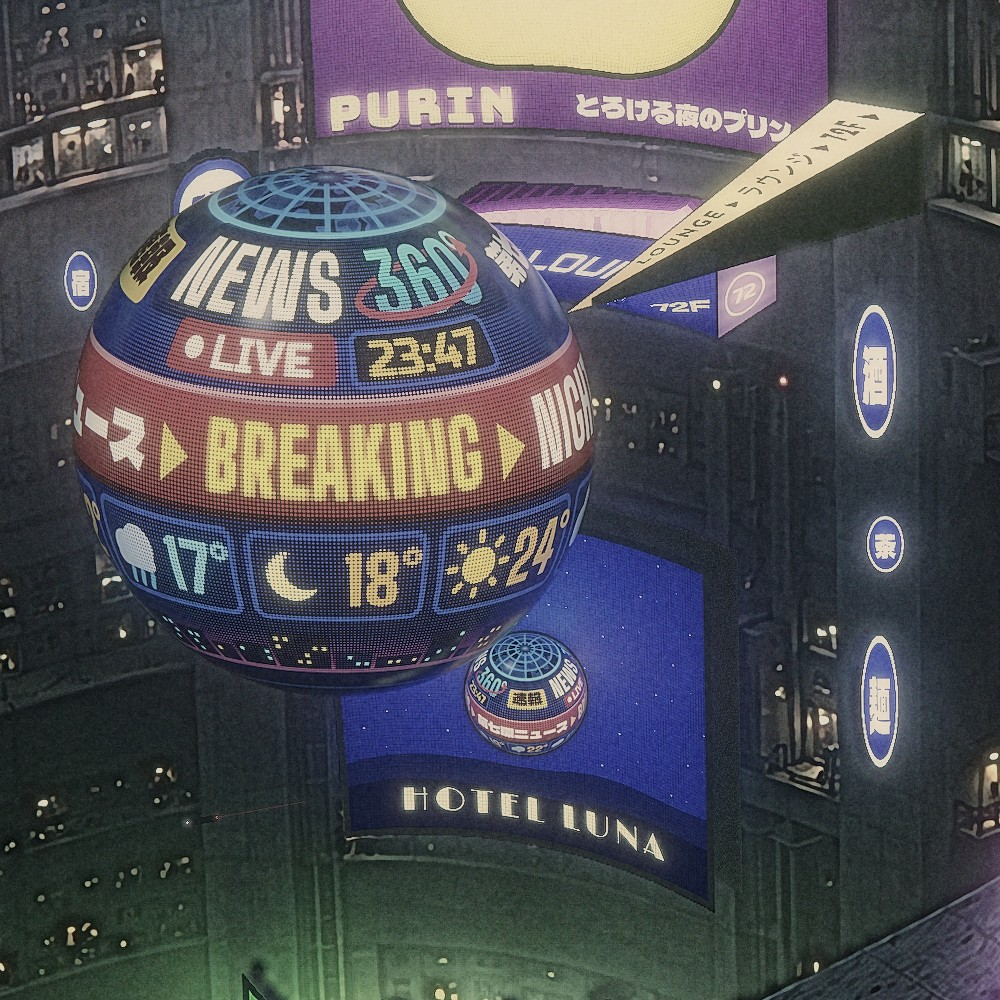
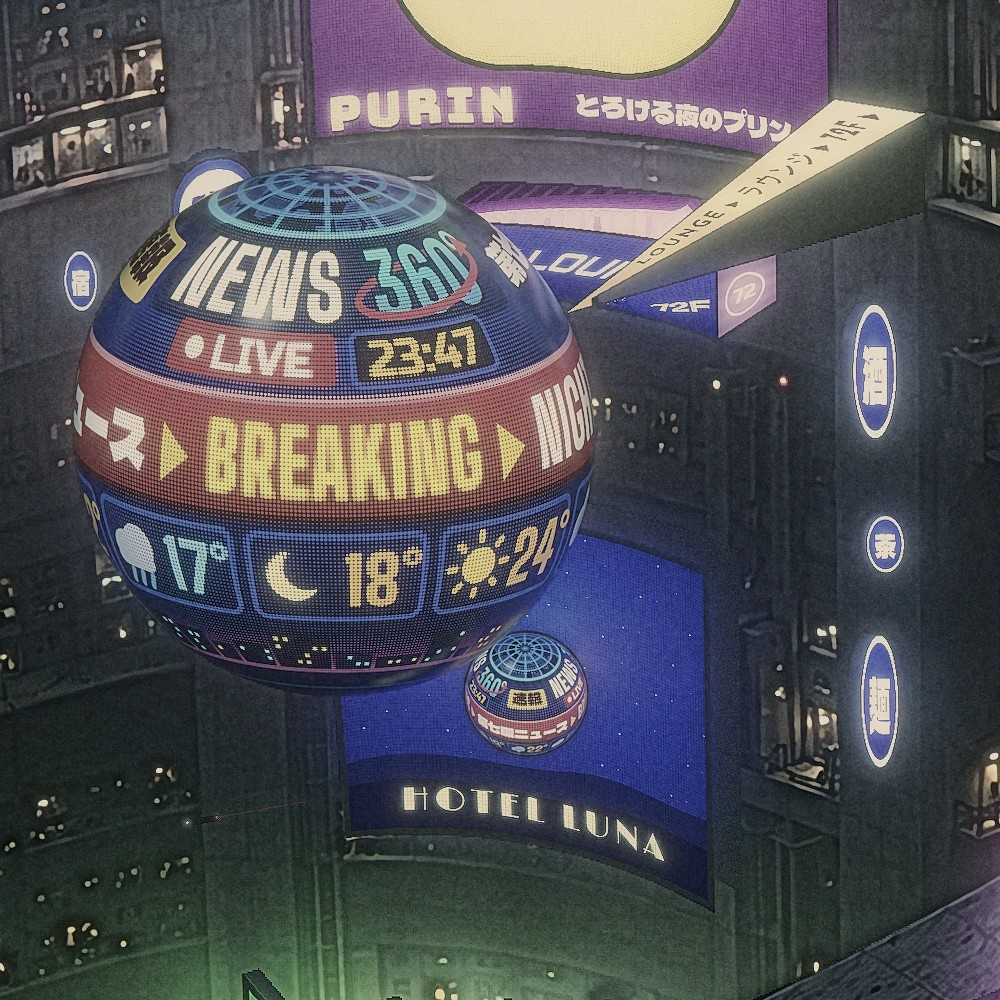
Building 2: fix housing artefacts, pole-cap LED dots, roof plinth
- b2_relight.py: housing returns lit densely at 1x and walls filled per surface class (no dark beads
  along blade edges, no scallops at deck rims)
- b2_composite.py: non-emissive sign parts get wall spill/glow instead of being treated as light,
  so housing returns and lantern rims keep their depth
- b2_sphere.py: halftone LED rings halve their LED count toward the poles, so the globe cap keeps dots
- b2_signs.py: lit, non-emissive plinth for the roof ball; drop the detached pink_side sliver;
  ホテル MIDORI banner outline made a true parallelogram

Claude-Session: https://claude.ai/code/session_01MhhnmDegvsiUUN8kXwzwEG

diff --git a/pipeline/building_2/scripts/b2_relight.py b/pipeline/building_2/scripts/b2_relight.py
@@ -52,14 +52,17 @@ Lp, Ln, Lr, Lt, La = Lp[keep], Ln[keep], Lr[keep], Lt[keep], La[keep]
 print('light cells', len(Lp))
 
 # ---------------- receivers ----------------
+# walls/decks on a coarse grid; sign housing returns (thin, non-emissive sign parts) densely at 1x, so their very
+# different light never bleeds into the wall next to them when the grid is upsampled
 s = a.stride
 ry, rx = np.mgrid[s // 2:H:s, s // 2:W:s]
-Rm = (cls[ry, rx] > 0) & (EM[ry, rx] < 0.5)
-use_sign = (SM[ry, rx] > 0.5) & (EM[ry, rx] < 0.5)
-Rp = np.where(use_sign[..., None], SP[ry, rx], P[ry, rx]); Rn = np.where(use_sign[..., None], SN[ry, rx], N[ry, rx])
-Rp, Rn = Rp[Rm].astype(np.float32), Rn[Rm].astype(np.float32)
+Rm = (cls[ry, rx] > 0) & (EM[ry, rx] < 0.5) & (SM[ry, rx] < 0.5)
+hy, hx = np.nonzero((SM > 0.5) & (EM < 0.5) & (cls > 0))
+Rp = np.concatenate([P[ry, rx][Rm], SP[hy, hx]]).astype(np.float32)
+Rn = np.concatenate([N[ry, rx][Rm], SN[hy, hx]]).astype(np.float32)
 Rn /= np.linalg.norm(Rn, axis=1, keepdims=True) + 1e-9
-Rc = np.where(use_sign, 9, cls[ry, rx])[Rm]
+Rc = np.concatenate([cls[ry, rx][Rm], np.full(len(hy), 9, cls.dtype)])
+nW = int(Rm.sum())
 # micro-geometry: balcony slabs, ledges and railings stand ~15 px proud of the smooth wall and face every way,
 # so receivers sit slightly in front of the proxy surface and use a wrapped cosine on the structured walls
 Rp = Rp + Rn * np.where(Rc == 9, 0, 15)[:, None].astype(np.float32)
@@ -80,16 +83,35 @@ for i in range(0, len(Rp), 1500):
     hv = wn + view; hv /= np.linalg.norm(hv, axis=-1, keepdims=True)
     lobe = np.clip((hv * n).sum(-1), 0, None) ** 30
     Es[i:i + 1500] = (lobe * cl * La[None] / np.maximum(d2, d0 * d0) * att * (cr > 0)) @ Lr
-gridE = np.zeros(ry.shape + (3,), np.float32); gridE[Rm] = Ed
-gridS = np.zeros(ry.shape + (3,), np.float32); gridS[Rm] = Es
-# fill gaps (non-receiver cells) by normalized convolution, then upsample to 2x
-wgt = Rm.astype(np.float32)
-def fill(g):
-    num = cv2.GaussianBlur(g, (0, 0), 1.0); den = cv2.GaussianBlur(wgt, (0, 0), 1.0)[..., None]
-    return np.where(wgt[..., None] > 0, g, num / (den + 1e-6))
-Ed2 = cv2.resize(fill(gridE), (W2, H2), interpolation=cv2.INTER_CUBIC) / np.pi
-Es2 = cv2.resize(fill(gridS), (W2, H2), interpolation=cv2.INTER_CUBIC)
+# walls: fill and upsample each surface class on its own (no bleeding across far wall / near wall / deck edges)
+cls2 = cv2.resize(cls, (W2, H2), interpolation=cv2.INTER_NEAREST)
+gcls = np.where(Rm, cls[ry, rx], 0)
+Ed2 = np.zeros((H2, W2, 3), np.float32); Es2 = np.zeros((H2, W2, 3), np.float32)
+for c in (1, 2, 3):
+    m = (gcls == c).astype(np.float32)
+    if m.sum() == 0: continue
+    sel = (gcls == c)[Rm]
+    gE = np.zeros(ry.shape + (3,), np.float32); gS = np.zeros(ry.shape + (3,), np.float32)
+    gE[gcls == c] = Ed[:nW][sel]; gS[gcls == c] = Es[:nW][sel]
+    def fill(g):
+        num = cv2.GaussianBlur(g * m[..., None], (0, 0), 1.0); den = cv2.GaussianBlur(m, (0, 0), 1.0)[..., None]
+        out_ = num / (den + 1e-6)
+        for _ in range(3):                                       # grow into cells with no sample of this class
+            num = cv2.GaussianBlur(out_ * (den > 1e-3), (0, 0), 2.0); dd = cv2.GaussianBlur((den > 1e-3).astype(np.float32), (0, 0), 2.0)[..., None]
+            out_ = np.where(den > 1e-3, out_, num / (dd + 1e-6)); den = np.maximum(den, dd)
+        return np.where(m[..., None] > 0, g, out_)
+    k2 = (cls2 == c)[..., None]
+    Ed2 = np.where(k2, cv2.resize(fill(gE), (W2, H2), interpolation=cv2.INTER_CUBIC), Ed2)
+    Es2 = np.where(k2, cv2.resize(fill(gS), (W2, H2), interpolation=cv2.INTER_CUBIC), Es2)
+# housings: dense 1x values, upsampled with nearest neighbour inside the housing mask only
+hE = np.zeros((H, W, 3), np.float32); hS = np.zeros((H, W, 3), np.float32)
+hE[hy, hx] = Ed[nW:]; hS[hy, hx] = Es[nW:]
+hm = np.zeros((H, W), np.float32); hm[hy, hx] = 1
+hm2 = cv2.resize(hm, (W2, H2), interpolation=cv2.INTER_NEAREST)[..., None] > 0.5
+Ed2 = np.where(hm2, cv2.resize(hE, (W2, H2), interpolation=cv2.INTER_NEAREST), Ed2) / np.pi
+Es2 = np.where(hm2, cv2.resize(hS, (W2, H2), interpolation=cv2.INTER_NEAREST), Es2)
 Ed2, Es2 = np.clip(Ed2, 0, None), np.clip(Es2, 0, None)
+print('receivers: %d wall grid + %d housing px' % (nW, len(hy)))
 print('irradiance p99 %.4f' % np.percentile(Ed2, 99))
 
 # ---------------- albedo / gloss ----------------
@@ -100,7 +122,6 @@ chroma = (B + 0.002) / (Lb[..., None] + 0.002); chroma = 0.6 + 0.4 * np.clip(chr
 albedo = 0.32 * tex[..., None] * chroma
 SM2 = cv2.resize(SM, (W2, H2), interpolation=cv2.INTER_NEAREST); EM2 = cv2.resize(EM, (W2, H2), interpolation=cv2.INTER_LINEAR)
 albedo = np.where((SM2 > 0.5)[..., None], 0.22, albedo)               # sign returns / frames: painted metal
-cls2 = cv2.resize(cls, (W2, H2), interpolation=cv2.INTER_NEAREST)
 gloss = np.where(cls2 == 3, 0.10, 0.03).astype(np.float32); gloss[SM2 > 0.5] = 0.25
 recv = (1 - np.clip(EM2 * 1.2, 0, 1))[..., None] * (cls2 > 0)[..., None]
 add = (albedo * Ed2 * a.gain + gloss[..., None] * Es2 * 0.02 * a.spec) * recv

diff --git a/pipeline/building_2/scripts/b2_signs.py b/pipeline/building_2/scripts/b2_signs.py
@@ -391,6 +391,8 @@ def material(name, kind, rgba, xs, ys, uv, b, wpx, hpx):
         return col, al, (np.zeros_like(al) if kind == 'void' else (col.max(1) > 0.2).astype(np.float32) * al)
     return col, al, al
 
+REGULARIZE = {'mint_v2'}      # drawn 13% wider at the bottom - impossible for a flat banner seen by this camera
+
 def draw_face(name, tex_name=None, mode='coons'):
     CUR['anchor'] = 'near' if name in NEAR else 'far'
     pieces, rot, kind = FACES[name]
@@ -403,6 +405,10 @@ def draw_face(name, tex_name=None, mode='coons'):
         cnts, _ = cv2.findContours(b, cv2.RETR_EXTERNAL, cv2.CHAIN_APPROX_NONE); full = np.zeros_like(b)
         cv2.drawContours(full, cnts, -1, 1, -1); hole = full - b; b = full
     C = MANUAL.get(name, F[name]['corners'])
+    if name in REGULARIZE:                              # flat panel: opposite edges parallel (telephoto camera)
+        TLc, TRc, BRc, BLc = (np.array(p, float) for p in C)
+        C = [TLc, TRc, TRc + BLc - TLc, BLc]
+        b = np.zeros_like(b); cv2.fillConvexPoly(b, np.round(np.array(C)).astype(np.int32), 1)
     ys0, xs0 = np.nonzero(b)
     bbox = (xs0.min(), ys0.min(), xs0.max(), ys0.max())
     Cn = np.array(C, float)
@@ -548,12 +554,24 @@ def draw_plinth(cx, cy, r):
     side = np.maximum(side, ((np.abs(xx - pcx) < a) & (yy > pcy) & (yy < pcy + 0.16 * r * c_)).astype(np.float32))
     top = np.clip((1.0 - e_top) * 6, 0, 1)
     reg = canvas[y0:y1, x0:x1]
-    occl = np.clip((1.25 - np.minimum(e_top, e_bot)) * 2, 0, 1) * 0.35       # the roof screen is hidden right at the foot
+    occl = np.clip((1.06 - np.minimum(e_top, e_bot)) * 8, 0, 1) * 0.15       # the roof screen is hidden right at the foot
     reg *= (1 - occl)[..., None]
-    side_col = np.array([0.010, 0.010, 0.012], np.float32); top_col = np.array([0.020, 0.019, 0.024], np.float32)
-    rim = np.clip(1 - np.abs(np.sqrt(e_top) - 0.97) / 0.03, 0, 1)[..., None] * np.array([0.05, 0.035, 0.06], np.float32)
+    roof = reg[np.clip(e_bot, 0, 9) > 1.3].reshape(-1, 3).mean(0) if (e_bot > 1.3).any() else np.array([0.3, 0.1, 0.2], np.float32)
+    side_col = (0.012 + 0.18 * roof).astype(np.float32)                        # dark metal + pink bounce from the roof
+    top_col = (0.02 + 0.10 * roof + np.array([0.02, 0.03, 0.06])).astype(np.float32)   # top catches the ball's own light
+    rim = np.clip(1 - np.abs(np.sqrt(e_top) - 0.97) / 0.03, 0, 1)[..., None] * np.array([0.08, 0.06, 0.10], np.float32)
     reg[:] = reg * (1 - side[..., None]) + side_col * side[..., None]
     reg[:] = reg * (1 - top[..., None]) + (top_col + rim) * top[..., None]
+    # register as non-emissive lit metal so both light passes illuminate it (it was flagged EM by the roof below)
+    py, px = np.nonzero(np.maximum(side, top) > 0.5)
+    gx, gy = px + x0, py + y0
+    keep = (gx >= 0) & (gy >= 0) & (gx < W2) & (gy < H2)
+    gx, gy = gx[keep], gy[keep]
+    EM[gy // 2, gx // 2] = 0
+    tmask = top[py, px][keep] > 0.5
+    nrm = np.where(tmask[:, None], up[None], np.repeat(toward[None], len(gx), 0)).astype(np.float32)
+    CUR['anchor'] = 'near'
+    put_geo(gx, gy, nrm, 2.0, emissive=False)
 
 def draw_mesh_ball(name):
     import b2_sphere
@@ -699,6 +717,7 @@ for name, tx in ORDER:
         if not SKIP_BALLS: draw_mesh_ball(name)
         continue
     if FIX_L and name in ('L_bot', 'L_side'): continue
+    if name == 'pink_side': continue
     n = draw_face(name, tx); print(name, n, flush=True)
 for p in ('r34', 'r35', 'r36', 'r37'): draw_neon(p)
 for p in ('v43', 'v44', 'v45', 'v46', 'v47', 'v48'): draw_lamp(p)

diff --git a/pipeline/building_2/scripts/b2_sphere.py b/pipeline/building_2/scripts/b2_sphere.py
@@ -67,6 +67,7 @@ HT_SAT = 1.0                    # saturation of the dot colour around its lumina
 HT_BLEED = 0.10                 # diffuser bleed glow on the substrate around a dot (fraction of the dot radiance,
                                 # reached for dots >= the HT_FILL size)
 HT_BLEED_W = 0.15               # bleed decay length (fraction of the narrower cell side)
+POLE_RINGS = (60.0, 75.5, 82.8)  # |lat| where each LED ring halves its LED count (halftone style)
 HT_FADE = (1.7, 2.7)            # screen pitch (px) range over which dots fade in (below: plain averaged colour)
 HT_DETAIL = (1.0, 4.2, 3.6)     # dot size + colour = mix(cell's, from the per-pixel texture, d): d = [0] at pitch
                                 # <= [2] px, 0 at pitch >= [1] px (one colour per dot); legible small-ball text
@@ -438,6 +439,7 @@ def _pole_supersample(pt, nx, ny, r, M, rot, K=8):
 
 
 def _shade(nx, ny, r, cx, cy, pt, M, rot, up_c, exposure, envf):
+    global LED_CELLS
     W0, H0 = pt['W'], pt['H']
     n, nz, u, v, p, a, b, c, d, s1, s2, ntap, lod, au, av = _footprint(nx, ny, r, M, rot, W0, H0)
     # ---- LED cell coordinates and their on-screen size
@@ -450,8 +452,26 @@ def _shade(nx, ny, r, cx, cy, pt, M, rot, up_c, exposure, envf):
     fall = 0.35 + 0.65 * mu ** 0.6                     # LED viewing-angle falloff + slight colour shift
     tint = 1 + ((1 - mu) ** 2)[:, None] * np.array([-0.06, -0.015, 0.08], np.float32)
     if LED_STYLE == 'halftone':
-        led, emis = _shade_halftone(pt, nx, ny, r, M, rot, u, v, p, a, b, c, d, s1, s2, ntap, lod, au, av, cu, cv,
-                                    pu, pv, exposure)
+        # latitude rings like a real LED sphere: fewer LEDs per ring toward the poles (x2 above 60 deg, x4 above
+        # 75.5, x8 above 82.8) so the dots stay round and above the fade pitch instead of melting into the cap
+        lat = 90.0 - (v / H0) * 180.0
+        alat = np.abs(lat)
+        band = np.where(alat < POLE_RINGS[0], 1, np.where(alat < POLE_RINGS[1], 2, np.where(alat < POLE_RINGS[2], 4, 8)))
+        led = np.zeros((len(nx), 3), np.float32); emis = np.zeros((len(nx), 3), np.float32)
+        keep_cells = LED_CELLS
+        try:
+            for f in (1, 2, 4, 8):
+                ix = np.nonzero(band == f)[0]
+                if not len(ix): continue
+                ncu_f = max(8, NCU // f)
+                LED_CELLS = (ncu_f, NCV)
+                cu_f = u[ix] * ncu_f / W0
+                pu_f = 1 / (np.sqrt(a[ix] ** 2 + b[ix] ** 2) * ncu_f / W0 + 1e-9)
+                led[ix], emis[ix] = _shade_halftone(pt, nx[ix], ny[ix], r, M, rot, u[ix], v[ix], p[ix], a[ix], b[ix], c[ix],
+                                                    d[ix], s1[ix], s2[ix], ntap[ix], lod[ix], au[ix], av[ix], cu_f, cv[ix],
+                                                    pu_f, pv[ix], exposure)
+        finally:
+            LED_CELLS = keep_cells
     else:
         led, emis = _shade_grid(pt, nx, ny, r, M, rot, u, v, p, s1, s2, ntap, lod, au, av, cu, cv, pu, pv, exposure)
     led = led * fall[:, None].astype(np.float32) * tint

diff --git a/pipeline/building_2/scripts/b2_composite.py b/pipeline/building_2/scripts/b2_composite.py
@@ -72,6 +72,16 @@ lum = lambda x: (0.2126 * x[..., 0] + 0.7152 * x[..., 1] + 0.0722 * x[..., 2])[.
 Fm = np.asarray(Image.open(mask_p).convert('RGB'), np.float32) / 255
 M = np.clip(np.abs(Fm - B).sum(-1, keepdims=True) * 6, 0, 1)
 M = np.clip(gblur(M, 1.5), 0, 1)
+if not A.legacy:
+    # non-emissive sign geometry (panel housing returns, lantern rims, box sides, plinth) is surface, not light:
+    # take it out of the sign mask so it gets the same spill, glow and haze as the wall around it and keeps
+    # its own shading (otherwise the returns flip to dark outlines or melt into the wall)
+    import cv2 as _cv2r, os as _osr
+    if _osr.path.exists('out/signgeo.npz'):
+        _sg = np.load('out/signgeo.npz')
+        RET = _cv2r.resize((_sg['SM'] * (1 - _sg['EM'])).astype(np.float32), (W, H), interpolation=_cv2r.INTER_LINEAR)
+        RET = np.clip(_cv2r.dilate(RET, np.ones((3, 3), np.uint8)), 0, 1)[..., None]
+        M = M * (1 - RET)
 E = Fl * M
 # sign faces incl. their dark lettering (M misses dark letters drawn over the dark photo): the self-veil
 # reduction below uses this so dark strokes on bright panels stay dark
@@ -79,7 +89,8 @@ if not A.legacy:
     import cv2 as _cv2, os as _os
     Ms = M
     if _os.path.exists('out/signgeo.npz'):
-        SMu = _cv2.resize(np.load('out/signgeo.npz')['SM'].astype(np.float32), (W, H), interpolation=_cv2.INTER_LINEAR)
+        _sg2 = np.load('out/signgeo.npz')
+        SMu = _cv2.resize((_sg2['SM'] * _sg2['EM']).astype(np.float32), (W, H), interpolation=_cv2.INTER_LINEAR)   # emitting faces only
         Ms = np.maximum(M, np.clip(gblur(SMu[..., None], 1.5), 0, 1))
     # keep the reduction INSIDE the sign faces: both masks are blurred and reach a few px out over the dark
     # wall, which then lost its bloom while the wall just beyond kept it -> a dark outline round every sign.
